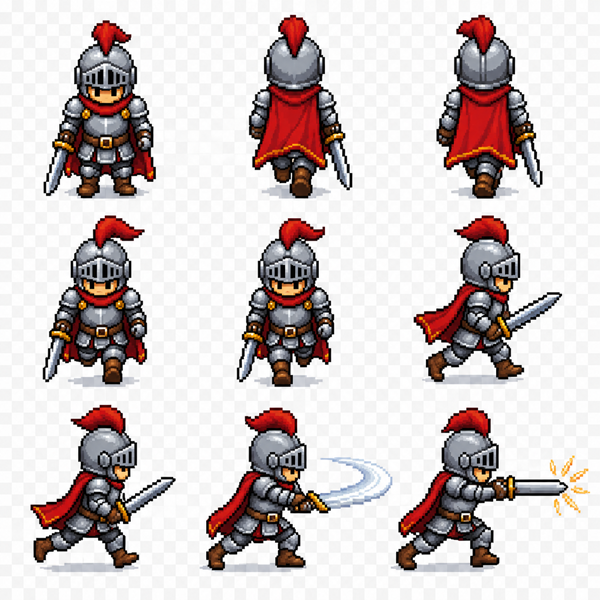
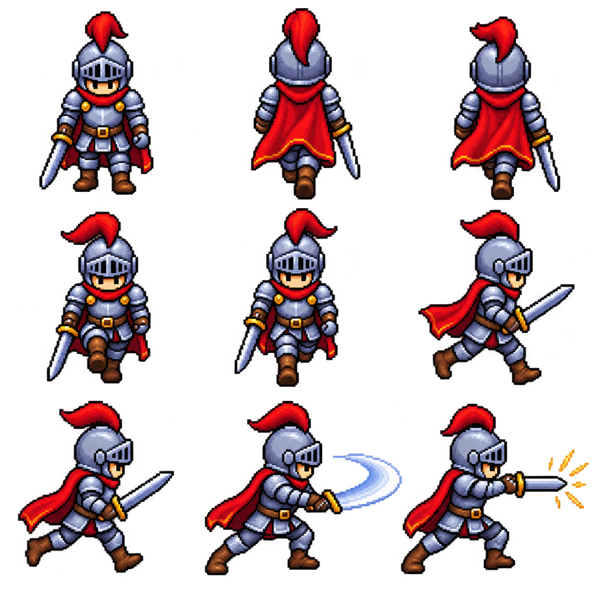
rpg jatkuu

diff --git a/kehitys26/sivut/rpg.html b/kehitys26/sivut/rpg.html
@@ -33,13 +33,14 @@
                     <li>Lisää kansio Assets / Art, tuo tänne kolme kuvaa (
                         <a href="../kuvat/rpg_knight.png">knight</a>,
 
-                        <a
-                            href="../kuvat/rpg_tiles_road.png">ground</a> ja <a
+                        <a href="../kuvat/rpg_tiles_road.png">ground</a> ja <a
                             href="../kuvat/rpg_tiles_water.png">water</a>
-                        )</li>
+                        )
+                    </li>
                 </ul>
 
-                <p>Kuvat ovat kooltaan 600px x 600 px. Tehdään isosta ruohikosta yhdeksän kuvaa jotka jokainen kooltaan 200px x 200px. Kuvan pilkkominen
+                <p>Kuvat ovat kooltaan 600px x 600 px. Tehdään isosta ruohikosta yhdeksän kuvaa jotka jokainen kooltaan
+                    200px x 200px. Kuvan pilkkominen
                     tapahtuu näin:</p>
                 <ul>
                     <li>Valitse kuva Art-kansiostasi. Asetetaan Inspector-ikkunassa ominaisuudet.</li>
@@ -60,7 +61,7 @@
                 <p>Lopputuloksena Art-kansiossasi on yksi kuva jaettuna yhdeksään osaan</p>
                 <!-- <p><img src="../kuvat/rpg_art.png" alt=""></p> -->
 
-<hr />
+                <hr />
                 <h3>Pelialueen rakentaminen</h3>
 
                 <h4>Tilemap</h4>
@@ -93,9 +94,26 @@
                     </li>
                     <li>Testaa toiminta.</li>
                 </ul>
-<hr />
+                <p>Tilemap-objektin Order in layer kannattaa asettaa arvolle -1 jotta pelaaja varmasti näkyy sinulle.
+                </p>
+                <hr />
                 <h3>Pelihahmo ja animaatio</h3>
 
+                <ul>
+                    <li>Lisää Player-pelihahmolle uusi komponentti Animator</li>
+                    <li>Lisää Project-valikossa uusi kansio Animations</li>
+                    <li>Lisää Animations-kansiossa Animation Contoller: hiiren oikea / Create / Animation Controller,
+                        nimeä esim. PlayerAnimationContorller.</li>
+                    <li>Lisää komponentin Animator ominaisuus Controller ja PlayerAnimationController.</li>
+                    <li>valitse Window / Animation / Animation</li>
+                    <li>valitse Player-GameObject ja paina Create, tallenna animaatio kansioon Animations nimellä
+                        Player_Walk_Right.anim</li>
+
+                        Animator
+                        Muuttujat: float moveY, float moveX, bool isMoving.
+                        Lisää uudet tilat Player_Walk_Right ja Player_Walk_Left
+                        Lisää transition-muutokset hiiren oikealla painikkeella. Siirtymälle asetetaan ehdot kohdassa Conditions (siirtymä oikealle liikkumiseen kun isMoving true ja moveX suurempi kuin 0).
+                </ul>
 
 
             </article>
